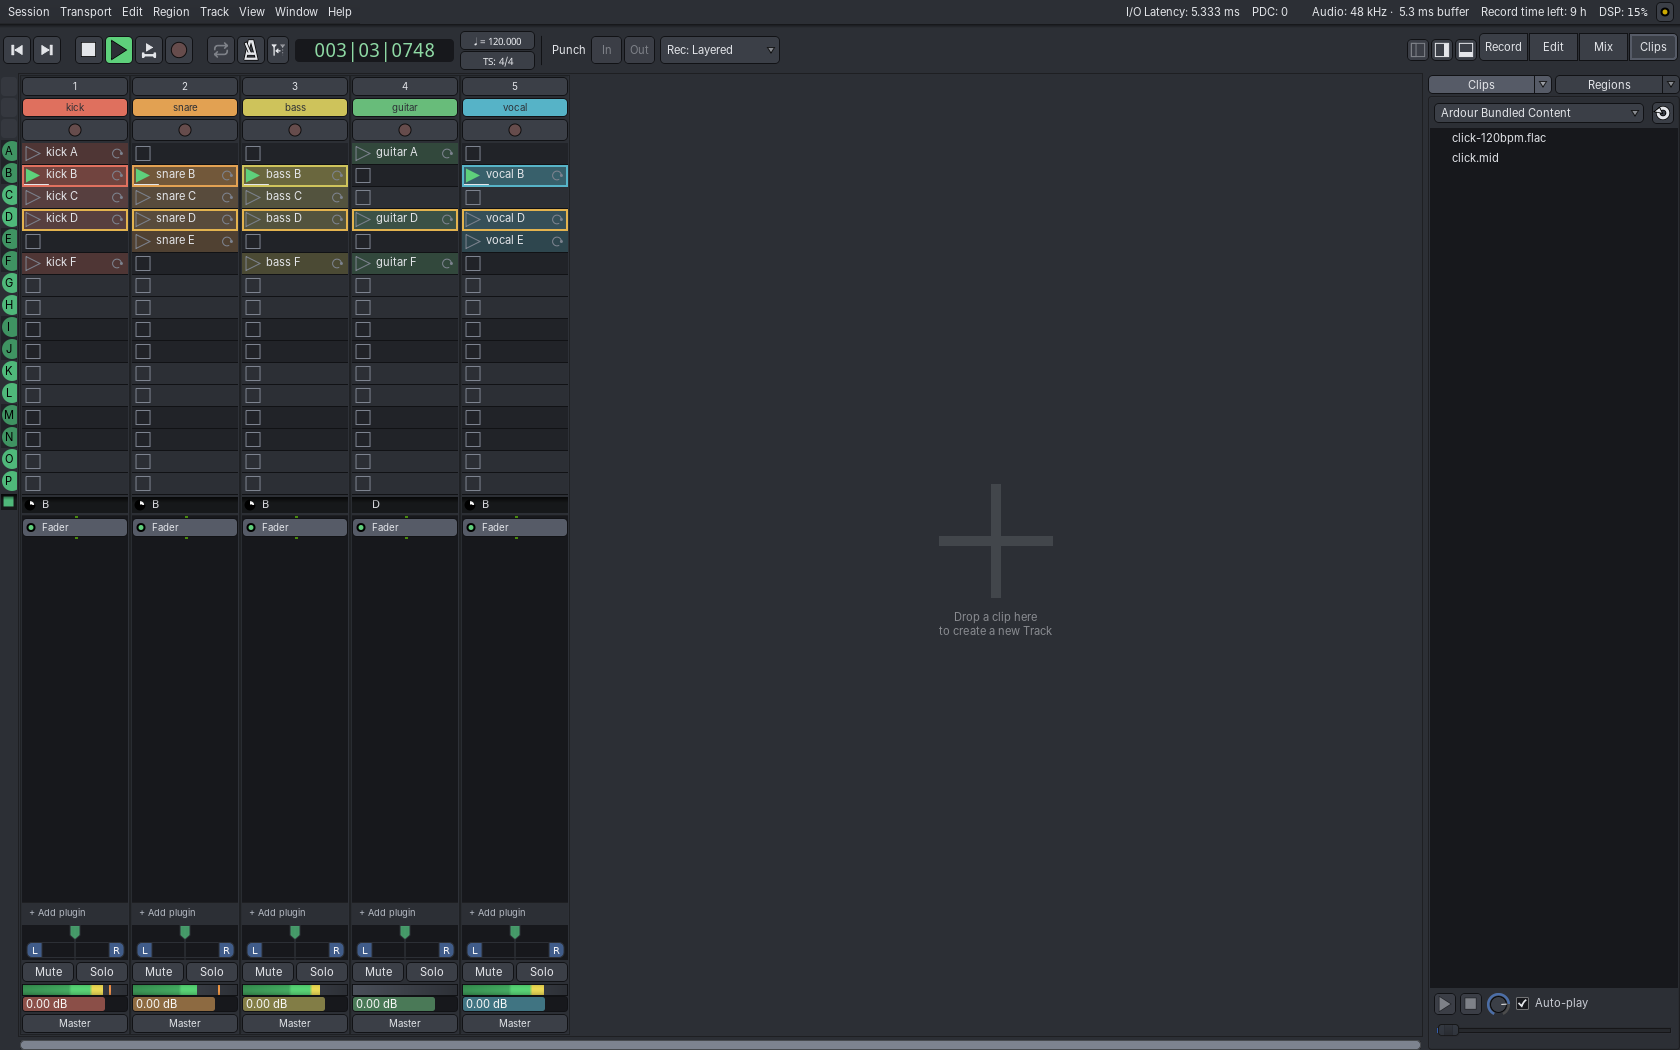
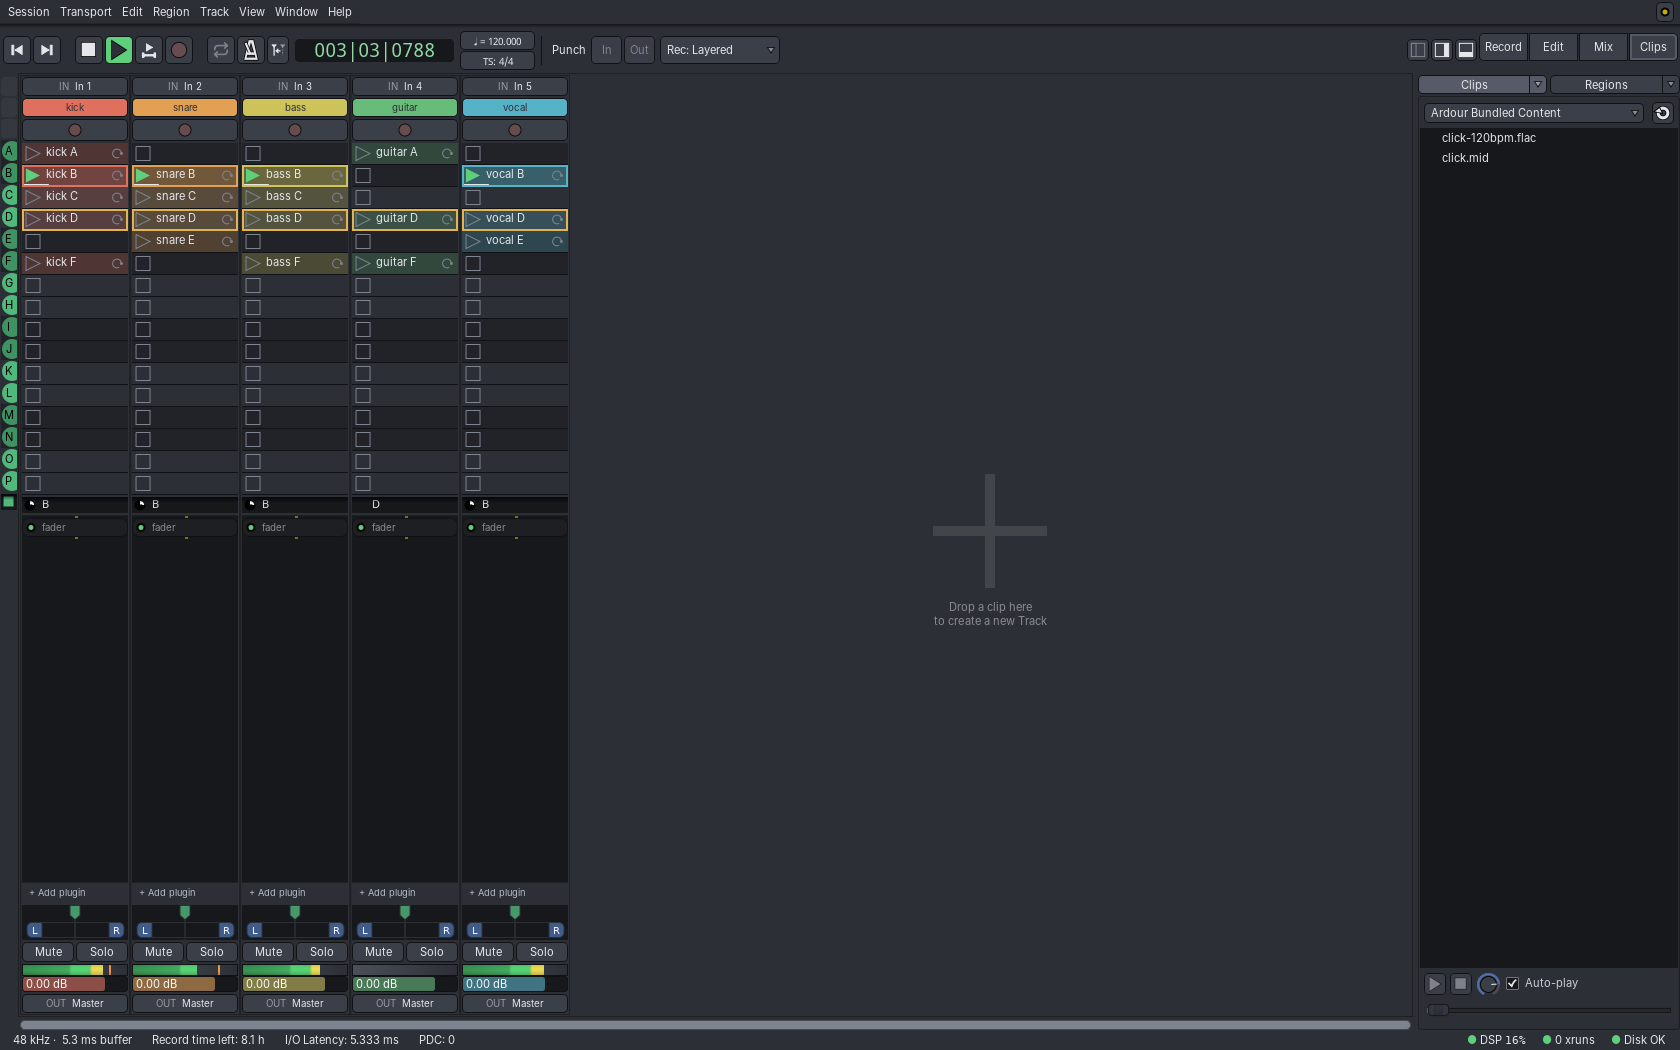
Round 10: screenshots, before/after sheet, README status, handoff notes

diff --git a/ui-drafts/README.md b/ui-drafts/README.md
@@ -90,6 +90,10 @@ Scope agreed: colors + layout, with Inter as the UI font.
 | Round 9: editor affordances | Done | track-header faders drawn as a slider (groove, translucent track-color fill, handle line); "Rec: Layered" record-mode label; editor list headers Cue / On / In / RTA with plain tooltips |
 | Round 9: command palette | Done | Help › Find Command… (Ctrl+Shift+P): search every action, shows group and shortcut, Enter runs it |
 | Round 9: contrast QA | Done | `tools/ui-qa/check_contrast.py`: WCAG 4.5:1 text / 3:1 non-text for the modern theme (113 pairs); palette tweaks for ruler labels, active icons on green, red pills, panner letters |
+| Round 10: bottom status bar | Done | status labels moved from the menu-bar row to a bar at the bottom; health pills "● DSP 12%", "● 0 xruns", "● Disk OK" (green/amber/red); same visibility menu |
+| Round 10: region cards | Done | name bar on by default (`show-name-highlight`), opaque in the region color with contrasting text, rounded border in the region color; bar stays at the bottom of the region |
+| Round 10: mixer plugin cards / sends | Partly | rounder processor rows, flat dim "fader" row, sends "→ Bus" with a thin level bar; no green send tint yet (needs a new button style) |
+| Round 10: strip I/O, meter row, rulers | Done | "IN In 1+2" / "OUT Master" / "No input"; meter point + RTA row hideable (hidden by default); marker ruler `< + >` buttons only on hover |
 | Round 6: menus and dialogs (from a tour of every menu and window) | Done | readable disabled items; visible empty checkboxes, plain check marks in menus; clipped time fields fixed; drop-downs in Preferences match their labels; highlighted main dialog action, no stock icons on dialog buttons; "Create" in New Session; plainer labels; View menu lists only the visible pages' pane toggles; common region actions at the top of the region menu; larger Locations window; selected regions keep their track tint; muted Recorder lanes; outline star for non-favorite plugins, Insert works without "Add" — see `screenshots/menus-dialogs-before-after.png` |
 
 ## Screenshots and handoff
@@ -101,6 +105,7 @@ Scope agreed: colors + layout, with Inter as the UI font.
 - `screenshots/before-after.png` – the three pages side by side.
 - `screenshots/topbar-before-after.png` – the top bar before/after round 5.
 - `screenshots/menus-dialogs-before-after.png` – menus and dialogs before/after round 6.
+- `screenshots/round10-before-after.png` – editor and mixer before/after round 10; single shots in `screenshots/round10/`.
 - `screenshots/round9-before-after.png` – mixer, editor, command palette, track fader (round 9); single shots in `screenshots/round9/`.
 
 Rebuild `before-after.png` after refreshing `screenshots/after/`:

diff --git a/ui-drafts/HANDOFF.md b/ui-drafts/HANDOFF.md
@@ -151,7 +151,7 @@ behaviour). The Alt+P shortcut works but isn't shown next to the context-menu it
 Testing tips: drive the app on `:96` with `xdotool`; `ArdourButton::set_icon (NoIcon)`
 also removes the text element (use `set_icon (0, 0)`).
 
-### Round 9 (branch `claude/mixer-round`, not merged)
+### Round 9 (pushed to `master` as `99791618`)
 
 After a UX best-practice review (Nielsen heuristics, progressive disclosure, WCAG contrast)
 the user said "go ahead with what you think are the prios" and asked for **parallel Sonnet 5.5
@@ -180,6 +180,28 @@ bar; region cards; mixer plugin cards / send bars. Advisory contrast pairs (stoc
 fill/groove, button outlines) need rc/drawing changes, not theme colors.
 QA gotcha: source `~/.cache/xroot/env.sh` first, then put `~/.local/bin` first in PATH,
 otherwise `run_gui.sh` starts the unpatched Xvfb and every check fails ("cannot open display").
+
+### Round 10 (branch `claude/round10`, pushed to `master`)
+
+Same worker setup as round 9 (four Sonnet 5.5 workers). The region-cards worker hit the
+account's spend limit mid-task; its partial version moved the name bar to the *top* of the
+region, which shifts waveforms, fades, xfades, gain lines, sync marks and MIDI notes (and
+changed `MidiRegionView::drag_group`). That was dropped as too risky: the bar stays at the
+bottom (Ardour's existing name-highlight layout), only restyled.
+Result: `screenshots/round10-before-after.png`. `run_static.sh` and `run_gui.sh` pass.
+
+| Area | Files |
+|---|---|
+| Bottom status bar + health pills (DSP / xruns / disk), `reset_health_counters()` | `ardour_ui_ed.cc`, `ardour_ui.cc`, `ardour_ui.h` |
+| Region cards: opaque name bar, contrasting text, rounded border in region color; `show-name-highlight` default on | `time_axis_view_item.cc`, `ui_config_vars.inc.h` |
+| Processor rows: corner radius 6, dim "fader" row (+ flat `processor fader: fill`), sends "→ name", 5 px send-level bar | `processor_box.cc`, `modern-ardour.colors` |
+| I/O button labels "IN In 1+2" / "OUT Master" / "No input" (also I/O plugin buttons) | `io_button.cc` |
+| Meter point + RTA in their own row, visibility id `MeterPoint` (not in the default list → hidden) | `mixer_strip.{h,cc}`, `rc_option_editor.cc` |
+| Marker ruler `< + >` buttons blank until hover | `editor.cc` |
+
+Follow-ups: editor list (right sidebar) now opens narrower, so In/R/RS columns are scrolled
+off; "DSP  9%" has a padded number; green tint for send rows (new `processor send` style);
+the status bar's left labels still say "Record time left:", "I/O Latency:", "PDC:".
 
 ## Current state / where it stopped
 
